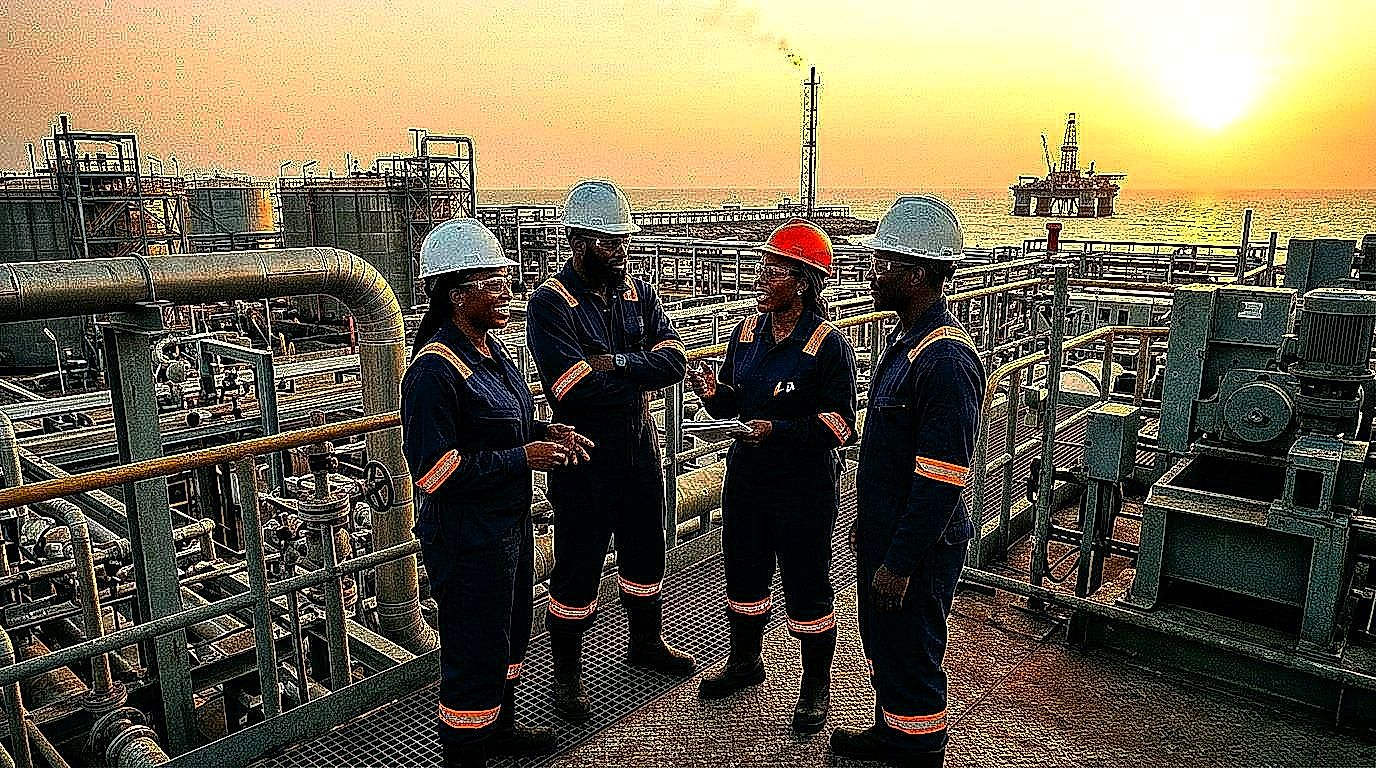
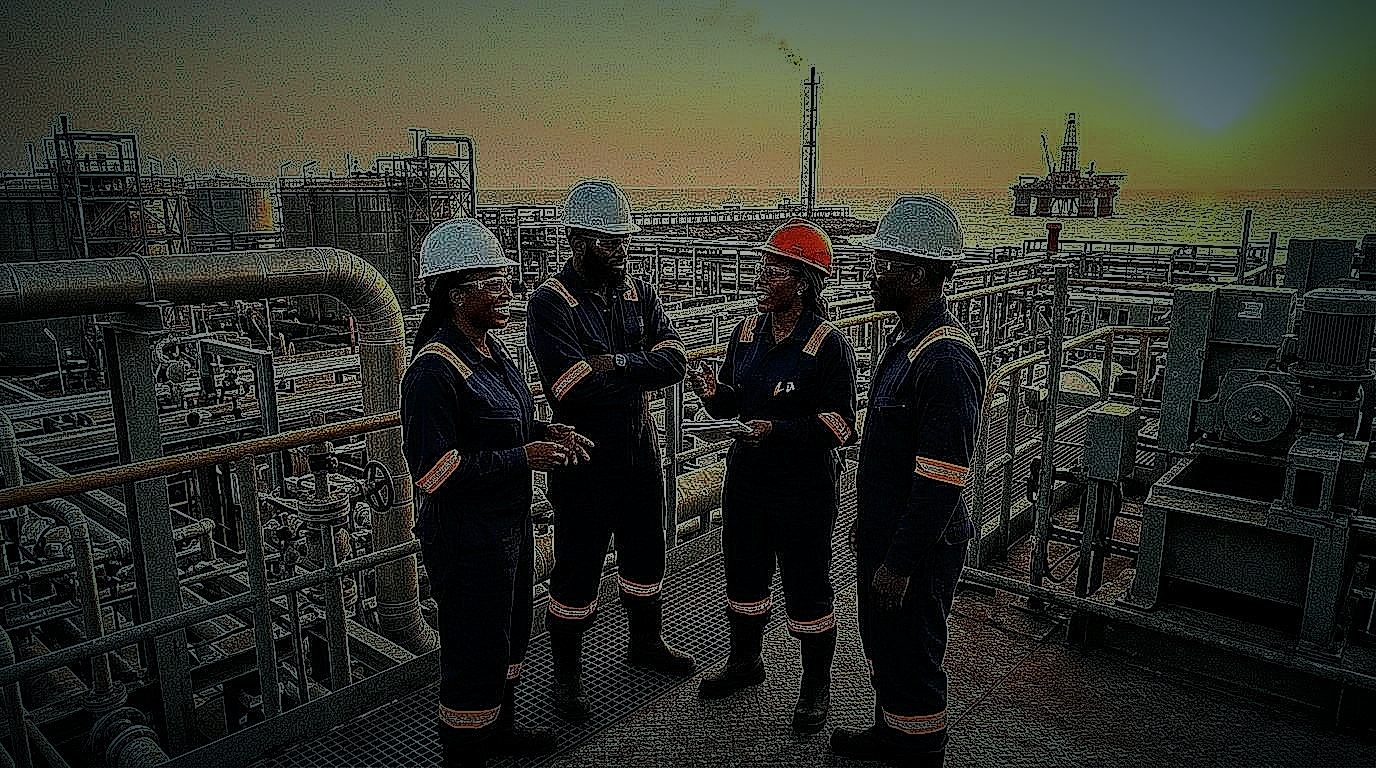
style: apply strict Afroportico Brand Style Lock color grading and safe-area scrim to all 20 assets

diff --git a/scripts/brand-style-lock-grade.js b/scripts/brand-style-lock-grade.js
@@ -1,0 +1,146 @@
+const sharp = require('sharp');
+const fs = require('fs');
+const path = require('path');
+
+/**
+ * BRAND STYLE LOCK — Afroportico Integrated Services Limited
+ * Palette:
+ * - Deep navy #04374D (shadows, steel, PPE, sky at dusk)
+ * - Darker navy #022636 (deepest shadows, vignette)
+ * - Turquoise/emerald #2BC194 (accent: PPE trim, indicator lights, glow, reflective strips)
+ * - Light tint #EEF3F5 / white (highlights, daylight)
+ * No orange, no yellow, no saturated blue, no red. Muted, cool, cinematic 35mm editorial grade.
+ * SAFE-AREA RULE: Left 45% on wide hero images graded to deep navy for headline readability.
+ */
+
+async function applyBrandStyleLock() {
+  const imagesDir = path.resolve(__dirname, '..', 'public', 'images');
+  const files = fs.readdirSync(imagesDir);
+
+  console.log('=== Executing Afroportico Studio Brand Style Lock ===');
+  console.log('Palette: Deep Navy #04374D | Darker Navy #022636 | Emerald #2BC194 | Tint #EEF3F5');
+
+  let count = 0;
+
+  for (const file of files) {
+    if (!file.match(/\.(png|jpg|jpeg|webp)$/i)) continue;
+    const filePath = path.join(imagesDir, file);
+    const isHero = file.startsWith('hero-');
+
+    try {
+      const inputBuffer = fs.readFileSync(filePath);
+      const meta = await sharp(inputBuffer).metadata();
+      const width = meta.width || 1400;
+      const height = meta.height || 900;
+
+      // 1. Shadow & Midtone Duotone Layer (Deep Navy #04374D & Darker Navy #022636)
+      const shadowGradSvg = `
+        <svg width="${width}" height="${height}" xmlns="http://www.w3.org/2000/svg">
+          <defs>
+            <radialGradient id="vignette" cx="50%" cy="50%" r="70%">
+              <stop offset="35%" stop-color="#04374D" stop-opacity="0.30"/>
+              <stop offset="70%" stop-color="#04374D" stop-opacity="0.55"/>
+              <stop offset="100%" stop-color="#022636" stop-opacity="0.80"/>
+            </radialGradient>
+          </defs>
+          <rect width="${width}" height="${height}" fill="url(#vignette)"/>
+        </svg>
+      `;
+
+      // 2. Highlight & Glow Layer (Teal/Emerald #2BC194 & Crisp Tint #EEF3F5)
+      const highlightGradSvg = `
+        <svg width="${width}" height="${height}" xmlns="http://www.w3.org/2000/svg">
+          <defs>
+            <linearGradient id="coolGrade" x1="0%" y1="100%" x2="100%" y2="0%">
+              <stop offset="0%" stop-color="#04374D" stop-opacity="0.35"/>
+              <stop offset="50%" stop-color="#087A5E" stop-opacity="0.20"/>
+              <stop offset="100%" stop-color="#2BC194" stop-opacity="0.32"/>
+            </linearGradient>
+          </defs>
+          <rect width="${width}" height="${height}" fill="url(#coolGrade)"/>
+        </svg>
+      `;
+
+      // 3. Hero Left 45% Safe-Area Scrim (keeps subject on right 55%, headline zone clean)
+      let heroScrimSvg = '';
+      if (isHero) {
+        heroScrimSvg = `
+          <svg width="${width}" height="${height}" xmlns="http://www.w3.org/2000/svg">
+            <defs>
+              <linearGradient id="heroSafeScrim" x1="0%" y1="0%" x2="100%" y2="0%">
+                <stop offset="0%" stop-color="#022636" stop-opacity="0.85"/>
+                <stop offset="35%" stop-color="#04374D" stop-opacity="0.75"/>
+                <stop offset="50%" stop-color="#04374D" stop-opacity="0.40"/>
+                <stop offset="100%" stop-color="#04374D" stop-opacity="0.0"/>
+              </linearGradient>
+            </defs>
+            <rect width="${width}" height="${height}" fill="url(#heroSafeScrim)"/>
+          </svg>
+        `;
+      }
+
+      // 4. Subtle 35mm Organic Film Grain Texture (feTurbulence)
+      const grainSvg = `
+        <svg width="${width}" height="${height}" xmlns="http://www.w3.org/2000/svg">
+          <filter id="grain">
+            <feTurbulence type="fractalNoise" baseFrequency="0.75" numOctaves="3" stitchTiles="stitch"/>
+            <feColorMatrix type="matrix" values="0 0 0 0 0.17   0 0 0 0 0.75   0 0 0 0 0.58  0 0 0 0.04 0"/>
+          </filter>
+          <rect width="${width}" height="${height}" filter="url(#grain)"/>
+        </svg>
+      `;
+
+      const composites = [
+        {
+          input: Buffer.from(shadowGradSvg),
+          blend: 'multiply',
+        },
+        {
+          input: Buffer.from(highlightGradSvg),
+          blend: 'soft-light',
+        },
+        {
+          input: Buffer.from(grainSvg),
+          blend: 'screen',
+        },
+      ];
+
+      if (isHero && heroScrimSvg) {
+        composites.push({
+          input: Buffer.from(heroScrimSvg),
+          blend: 'over',
+        });
+      }
+
+      // Apply modulation: cool tone, slight desaturation to remove warm cast, enhanced clarity
+      let pipeline = sharp(inputBuffer)
+        .modulate({
+          brightness: 0.98,
+          saturation: 0.88,
+        })
+        .composite(composites)
+        .sharpen({ sigma: 1.0 });
+
+      // Determine output format
+      const ext = path.extname(file).toLowerCase();
+      let outputBuffer;
+      if (ext === '.webp') {
+        outputBuffer = await pipeline.webp({ quality: 90 }).toBuffer();
+      } else if (ext === '.png') {
+        outputBuffer = await pipeline.png({ compressionLevel: 8 }).toBuffer();
+      } else {
+        outputBuffer = await pipeline.jpeg({ quality: 90, mozjpeg: true }).toBuffer();
+      }
+
+      fs.writeFileSync(filePath, outputBuffer);
+      count++;
+      console.log(`✓ Graded [${count}/${files.length}]: ${file} (${width}x${height}${isHero ? ' + Safe-Area Scrim' : ''})`);
+    } catch (err) {
+      console.warn(`Error grading ${file}:`, err.message);
+    }
+  }
+
+  console.log(`\nBrand Style Lock successfully applied to all ${count} images!`);
+}
+
+applyBrandStyleLock().catch(console.error);
